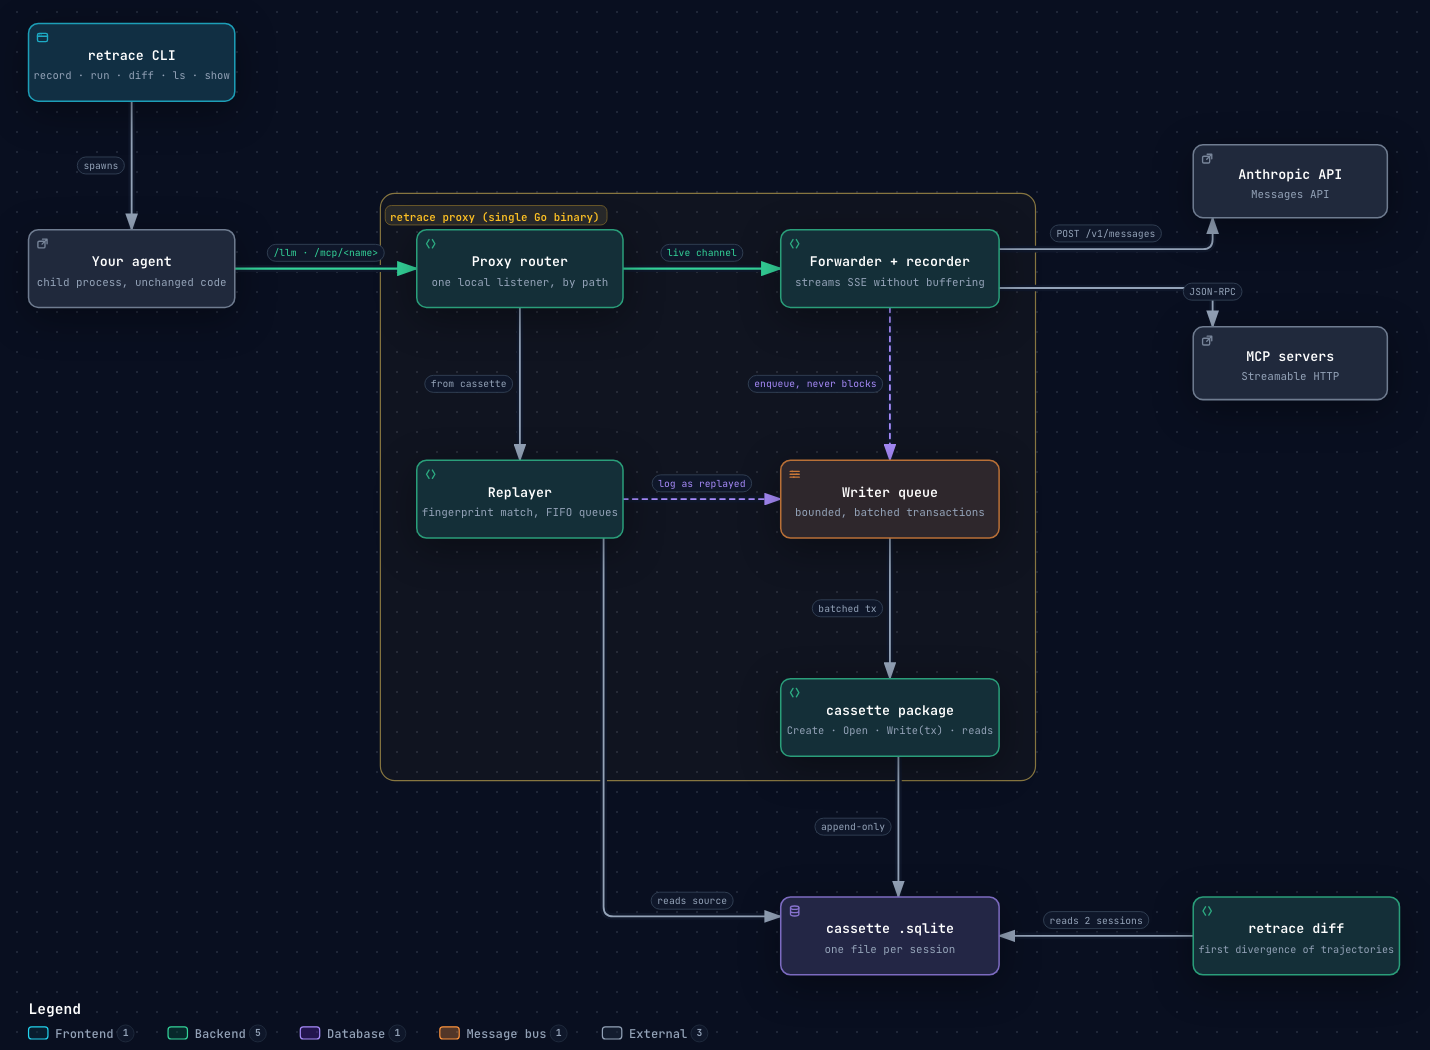
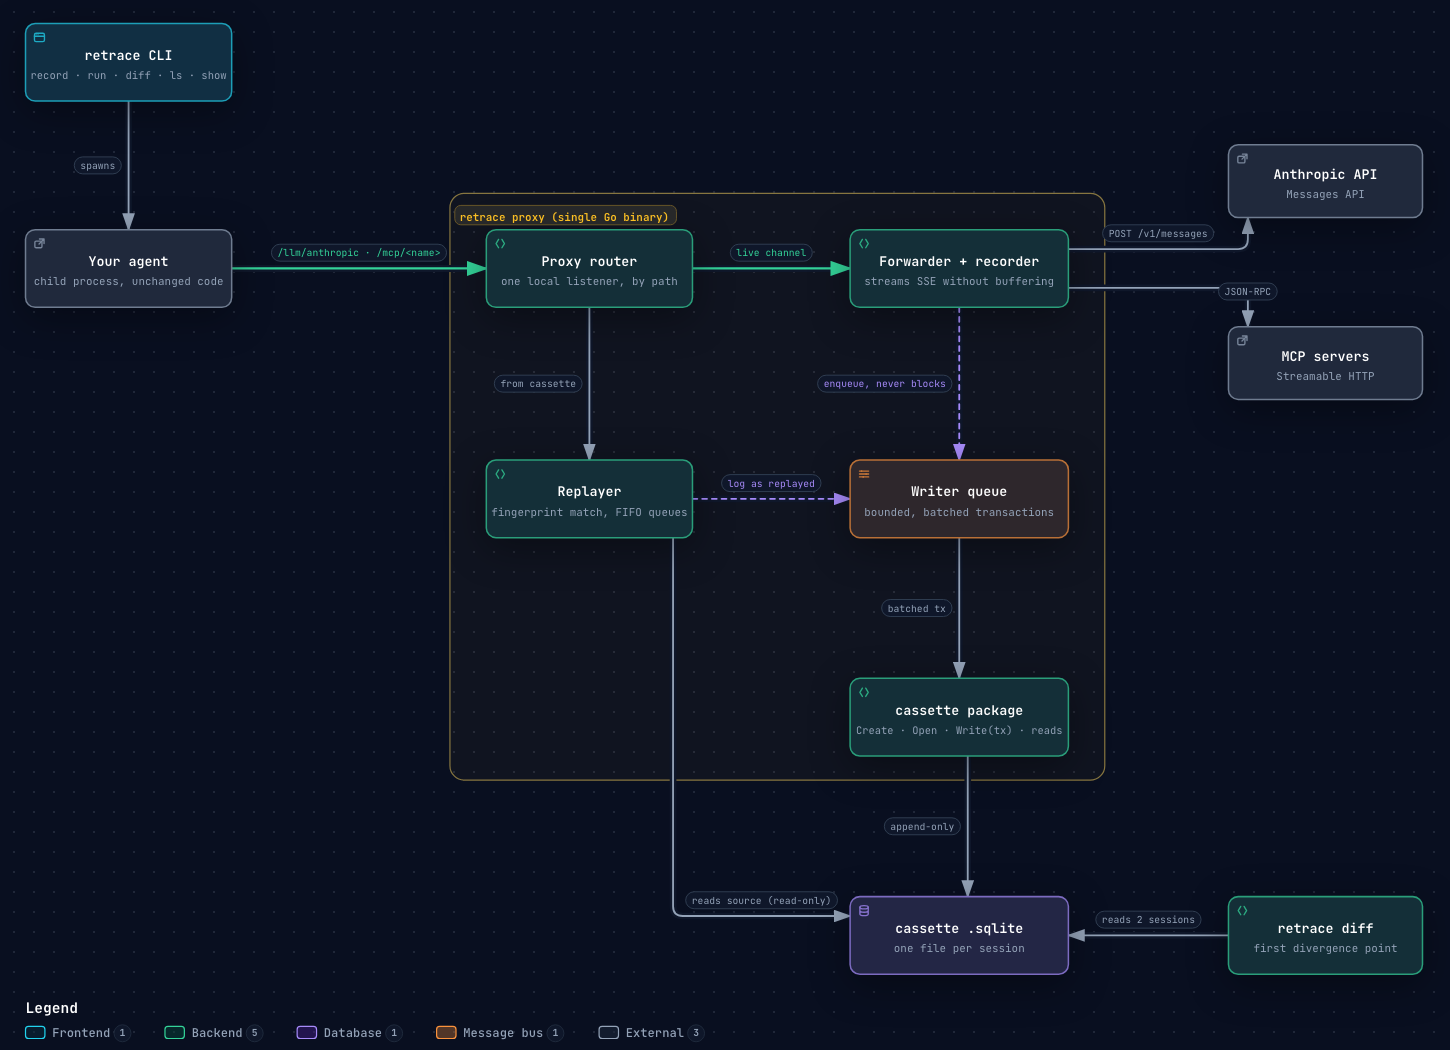
docs: address review of the architecture diagram
- Label the replay read as read-only: a replay never modifies its source.
- Use the spec's route /llm/anthropic for the agent's LLM traffic.
- Name milestones as in the plan (M1, not M1a/M1b).
- Pin Archify 3.2.0 and document the exact capture and crop steps.

diff --git a/docs/architecture/README.md b/docs/architecture/README.md
@@ -1,14 +1,16 @@
 # Architecture diagram
 
-The overview in the [README](../../README.md#how-it-works) is generated with [Archify](https://github.com/tt-a1i/archify) from [overview.json](overview.json).
+The overview in the [README](../../README.md#how-it-works) is generated with [Archify](https://github.com/tt-a1i/archify) **3.2.0** from [overview.json](overview.json).
 
 - `overview.json` is the source. Every component cites the spec section, ADR or code that justifies it, pinned to a commit in `meta.repository.revision`.
 - `overview-light.png` and `overview-dark.png` are what the README shows.
 - The interactive HTML (source links, component details, milestone tags) is not committed, because it is large and regenerated from the JSON.
 
+Nothing checks automatically that the images still match the JSON. Whoever changes `overview.json` regenerates both images in the same PR.
+
 ## Regenerating
 
-Update the diagram when a milestone changes the architecture or its status tags.
+Update the diagram when a milestone changes the architecture or its status tags. Use Archify 3.2.0; a newer version can change the JSON schema or the rendering, so upgrading it is a change of its own.
 
 1. Edit `overview.json`, and set `meta.repository.revision` to a commit on `main` that contains every cited line.
 2. Render and check it from the repository root:
@@ -18,4 +20,19 @@ Update the diagram when a milestone changes the architecture or its status tags.
      docs/architecture/overview.html --repo-root . --quality showcase
    ```
 
-3. Capture the light and dark images with `archify visual-check`, crop them to the diagram, and replace the two PNGs.
+3. Capture the light and dark screenshots:
+
+   ```sh
+   node <archify>/bin/archify.mjs visual-check docs/architecture/overview.html --summary --out-dir <tmp>
+   ```
+
+4. Crop the 2048×1320 captures to the diagram and its legend, without the viewer's title bar and controls. With the current canvas (1232 px wide) that is 1450×1050 px from offset (300, 150). On macOS:
+
+   ```sh
+   for t in light dark; do
+     sips -c 1050 1450 --cropOffset 150 300 <tmp>/overview.visual-check.2048x1320.$t.png \
+       --out docs/architecture/overview-$t.png
+   done
+   ```
+
+   If the canvas size changes, adjust the crop so it keeps every box and the legend, and check both images before committing.
